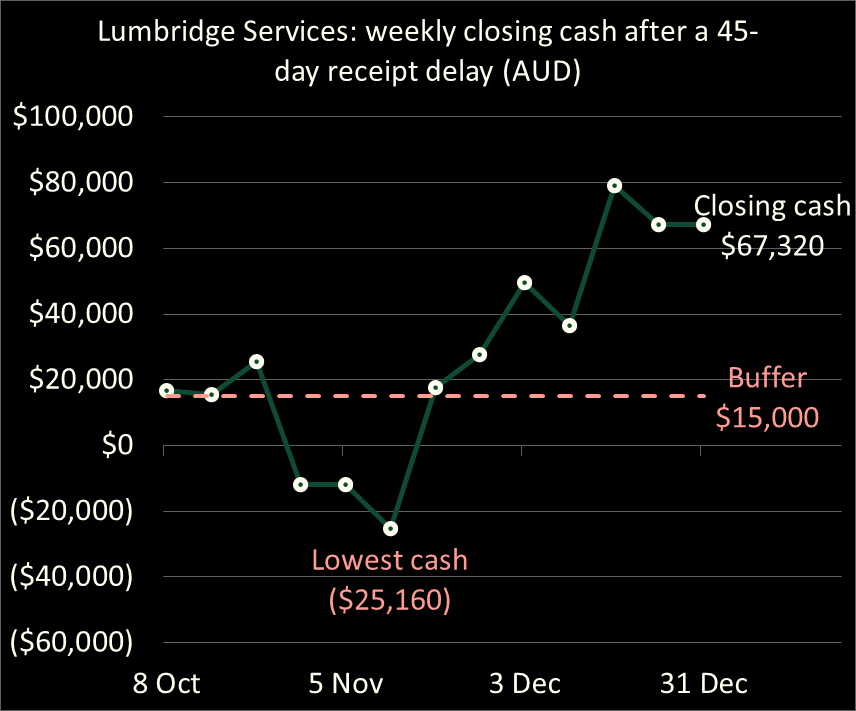
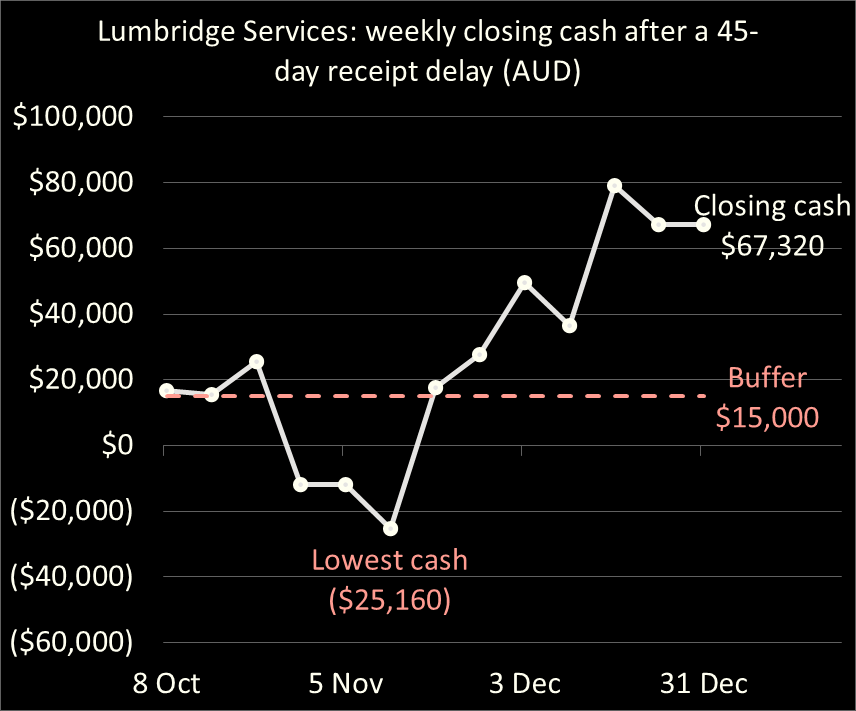
feat(site): draw the hero closing-cash line in platinum
The Lumbridge chart's closing-cash line was Rhodesian green #0F4B32, 2.07:1
against the black canvas. It now takes platinum #E5E4E2, the Machine view's
ink token, at 16.53:1 (audit palette item). export-cash-chart.ps1 reads that
token; both variants were exported again from the pinned workbook in Excel
16.0, whose hash is unchanged, and site-tools encode_cash_chart_webp wrote
the WebP copies. No value, date or series moved.

The capture record carries the new PNG and WebP hashes and the colour note.
The homepage and Profit and cash captions give the new export date. The
homepage desktop and mobile snapshots are updated for the recoloured chart
and that date.

diff --git a/examples/profit-vs-cash-flow/index.html b/examples/profit-vs-cash-flow/index.html
@@ -67,7 +67,7 @@
         </div>
         <figure class="case-preview">
               <a href="/assets/examples/lumbridge/cash-preview.png"><picture><source media="(max-width: 40rem)" srcset="/assets/examples/lumbridge/cash-preview-narrow.webp" width="856" height="711" /><img src="/assets/examples/lumbridge/cash-preview.webp" width="1282" height="639" fetchpriority="high" decoding="async" alt="Line chart of 13 weekly closing cash balances in the late case, falling to minus $25,160 before recovering above the $15,000 buffer" /></picture></a>
-              <figcaption>One receipt arrives 45 days late. Weekly closing cash falls to <span class="nowrap">−$25,160</span> against a $15,000 buffer. <a href="#results">Compare both cases</a>. Exported from Excel on 13 October 2026; <a href="/assets/examples/lumbridge/preview-record.txt">capture record</a>.</figcaption>
+              <figcaption>One receipt arrives 45 days late. Weekly closing cash falls to <span class="nowrap">−$25,160</span> against a $15,000 buffer. <a href="#results">Compare both cases</a>. Exported from Excel on 4 November 2026; <a href="/assets/examples/lumbridge/preview-record.txt">capture record</a>.</figcaption>
             </figure>
       </header>
       <div class="article-layout site-shell">
@@ -127,7 +127,7 @@
             </div>
             <p>The two cases end the quarter with the same cash because the delayed receipt still arrives, on 28 November. That later recovery cannot pay the wages, supplier invoices and GST that fall due in late October and early November.</p>
             <p>Against the owner’s $15,000 buffer, the late case is $40,160 short at its worst day. A reader looking only at December closing cash, or only at profit, sees neither the shortfall nor its date.</p>
-            <p class="field-note">Weekly closing cash in the late case, exported from the distributed workbook in Excel 16.0 on 13 October 2026. The 13 plotted values are $16,800, $15,600, $25,520, <span class="nowrap">−$11,960,</span> <span class="nowrap">−$11,960,</span> <span class="nowrap">−$25,160,</span> $17,640, $27,560, $49,680, $36,480, $79,280, $67,320 and $67,320, against the assumed $15,000 buffer. <a href="/assets/examples/lumbridge/preview-record.txt">Capture record</a>.</p>
+            <p class="field-note">Weekly closing cash in the late case, exported from the distributed workbook in Excel 16.0 on 4 November 2026. The 13 plotted values are $16,800, $15,600, $25,520, <span class="nowrap">−$11,960,</span> <span class="nowrap">−$11,960,</span> <span class="nowrap">−$25,160,</span> $17,640, $27,560, $49,680, $36,480, $79,280, $67,320 and $67,320, against the assumed $15,000 buffer. <a href="/assets/examples/lumbridge/preview-record.txt">Capture record</a>.</p>
           </section>
 
           <section id="receipt-delay">

diff --git a/index.html b/index.html
@@ -63,7 +63,7 @@
         </div>
         <figure class="case-preview">
           <a href="/assets/examples/lumbridge/cash-preview.png"><picture><source media="(max-width: 40rem), (min-width: 56.0625rem) and (max-width: 75rem)" srcset="/assets/examples/lumbridge/cash-preview-narrow.webp" width="856" height="711" /><img src="/assets/examples/lumbridge/cash-preview.webp" width="1282" height="639" fetchpriority="high" decoding="async" alt="Excel chart of weekly closing cash after a 45-day receipt delay, showing the cash gap against the assumed buffer" /></picture><span class="visually-hidden">View full-size chart</span></a>
-          <figcaption>13-week forecast with one receipt paid 45 days late. Weekly closing cash falls to <span class="nowrap">−$25,160</span> against a $15,000 buffer, then recovers to $67,320 by December, the same as without the delay. Exported from the supplied workbook in Excel 16.0 on 13 October 2026. <a href="/assets/examples/lumbridge/preview-record.txt">Capture record</a>.</figcaption>
+          <figcaption>13-week forecast with one receipt paid 45 days late. Weekly closing cash falls to <span class="nowrap">−$25,160</span> against a $15,000 buffer, then recovers to $67,320 by December, the same as without the delay. Exported from the supplied workbook in Excel 16.0 on 4 November 2026. <a href="/assets/examples/lumbridge/preview-record.txt">Capture record</a>.</figcaption>
         </figure>
       </section>
     </section>
